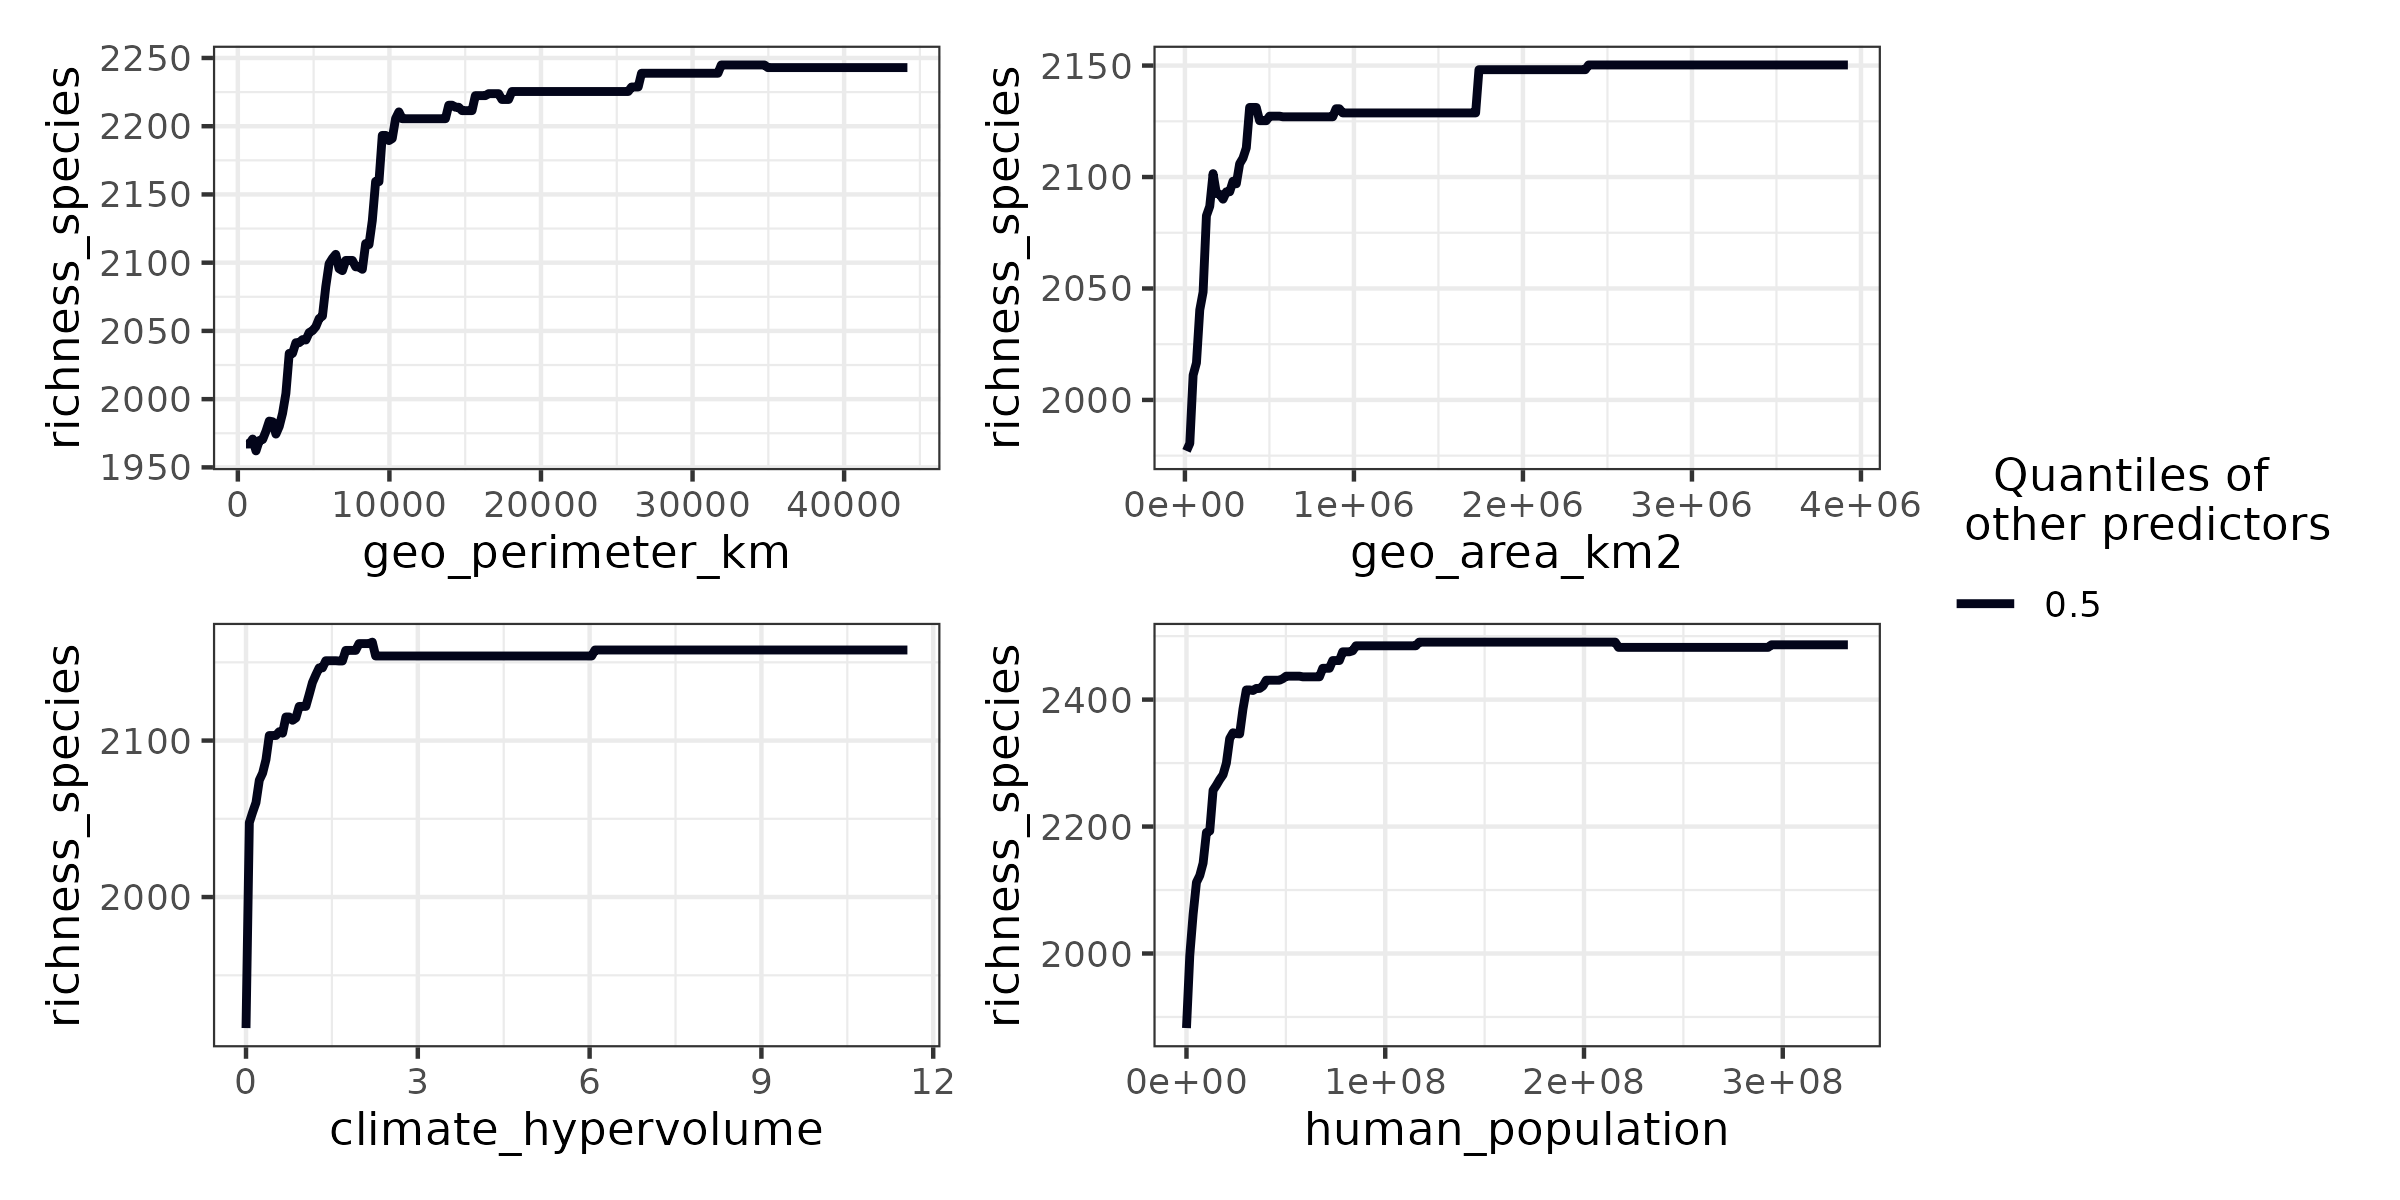
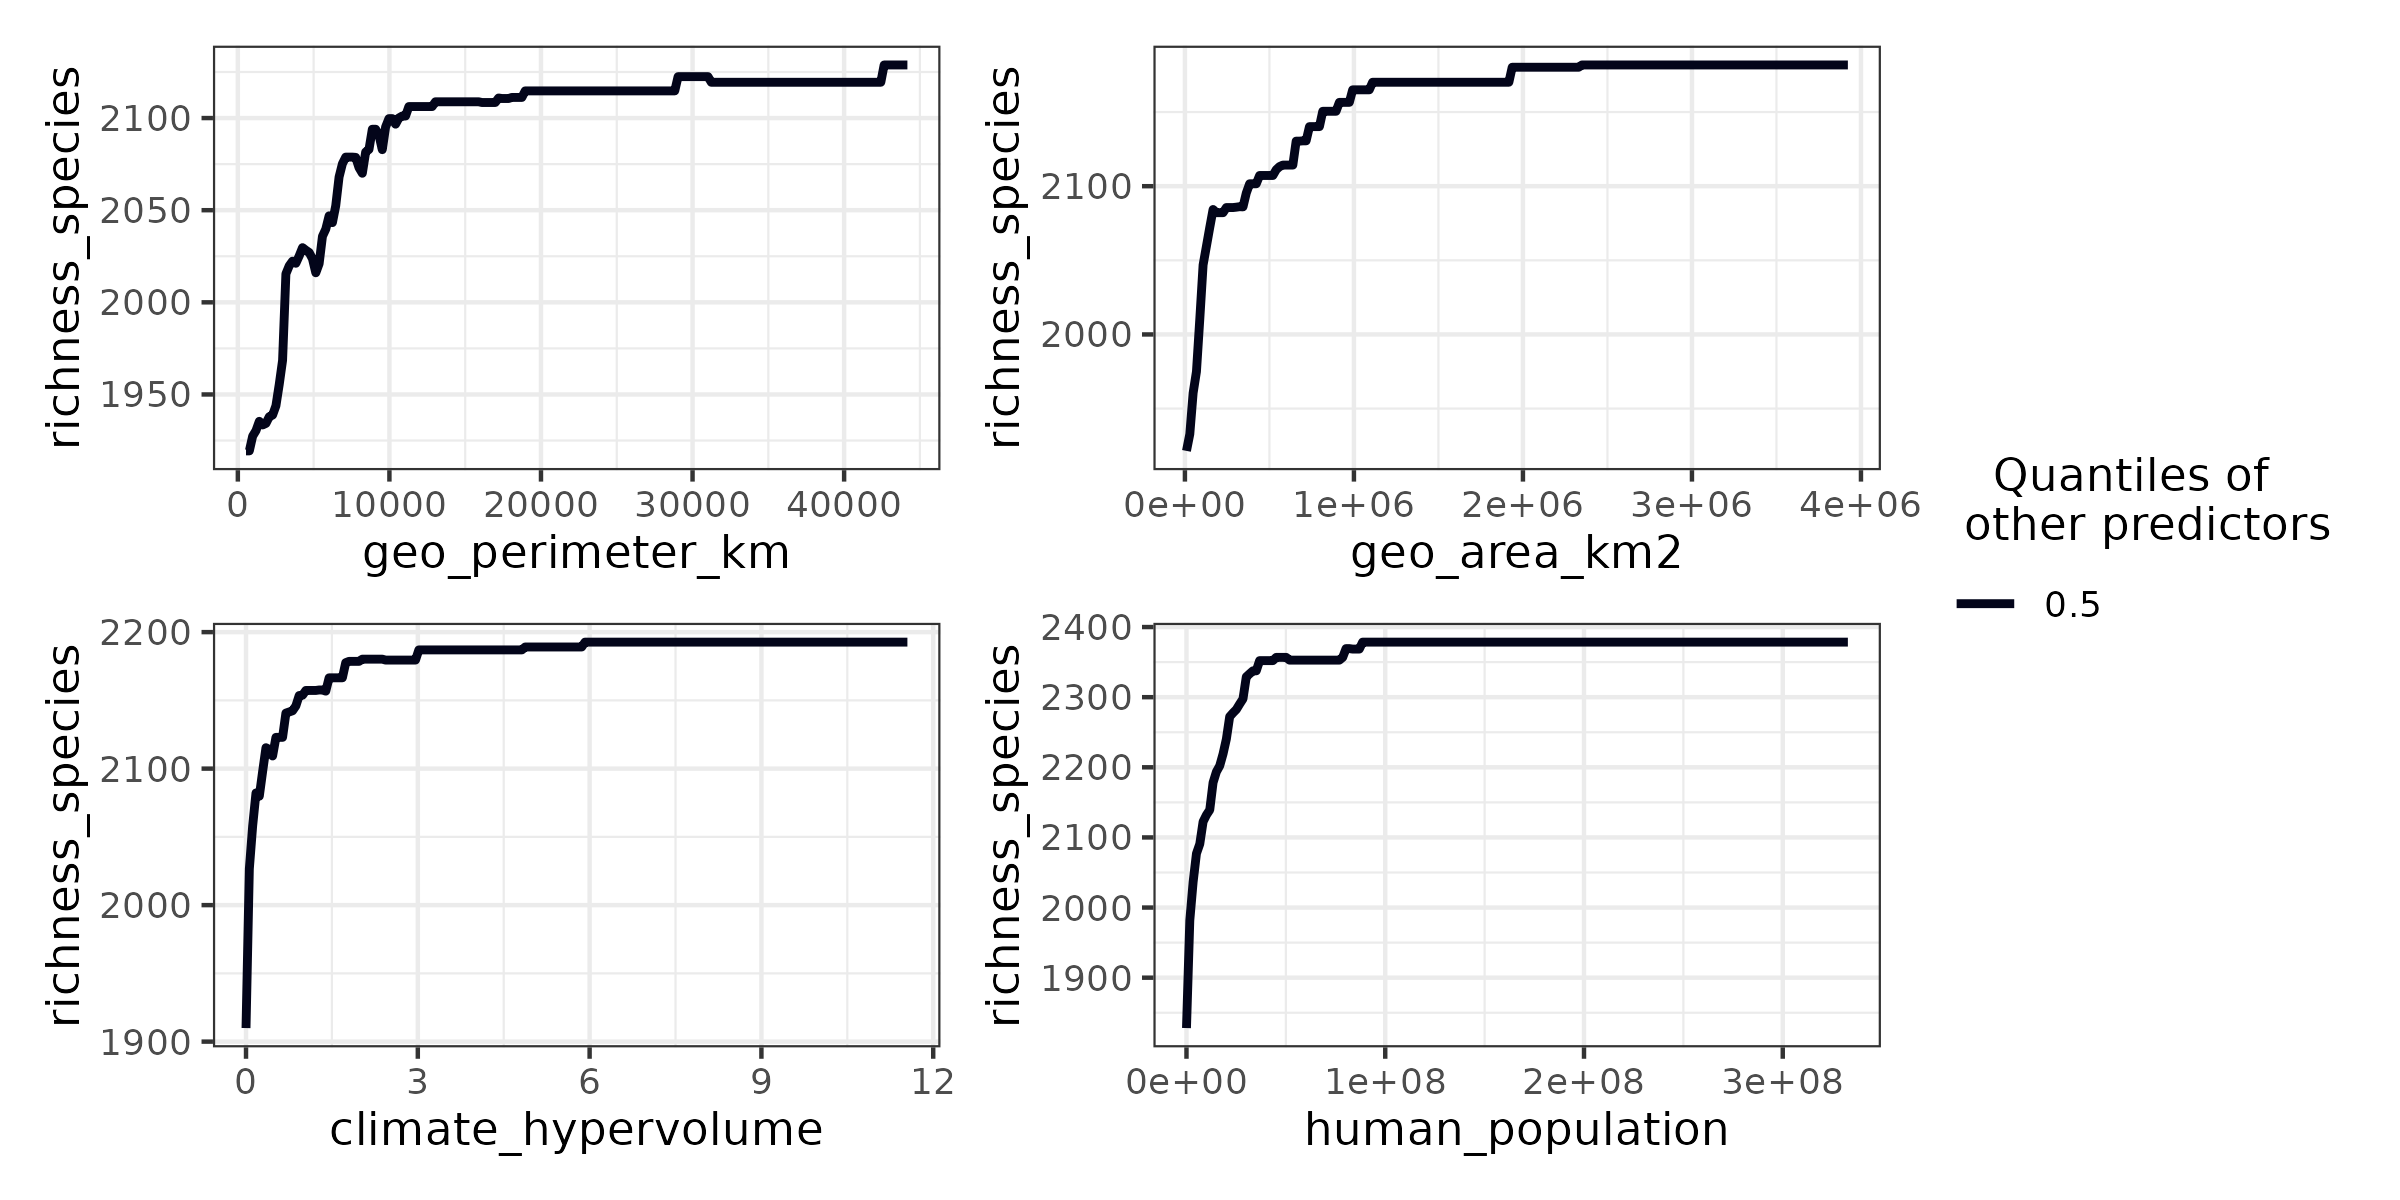
Deploying to gh-pages from @ BlasBenito/spatialData@85ecf6c11f945ee4fafa5b7aca7d5520812da540 🚀

diff --git a/LICENSE-text.html b/LICENSE-text.html
@@ -1,13 +1,13 @@
 <!DOCTYPE html>
-<!-- Generated by pkgdown: do not edit by hand --><html lang="en-US"><head><meta http-equiv="Content-Type" content="text/html; charset=UTF-8"><meta charset="utf-8"><meta http-equiv="X-UA-Compatible" content="IE=edge"><meta name="viewport" content="width=device-width, initial-scale=1, shrink-to-fit=no"><title>License • spatialData</title><script src="deps/jquery-3.6.0/jquery-3.6.0.min.js"></script><meta name="viewport" content="width=device-width, initial-scale=1, shrink-to-fit=no"><link href="deps/bootstrap-5.3.1/bootstrap.min.css" rel="stylesheet"><script src="deps/bootstrap-5.3.1/bootstrap.bundle.min.js"></script><link href="deps/font-awesome-6.5.2/css/all.min.css" rel="stylesheet"><link href="deps/font-awesome-6.5.2/css/v4-shims.min.css" rel="stylesheet"><script src="deps/headroom-0.11.0/headroom.min.js"></script><script src="deps/headroom-0.11.0/jQuery.headroom.min.js"></script><script src="deps/bootstrap-toc-1.0.1/bootstrap-toc.min.js"></script><script src="deps/clipboard.js-2.0.11/clipboard.min.js"></script><script src="deps/search-1.0.0/autocomplete.jquery.min.js"></script><script src="deps/search-1.0.0/fuse.min.js"></script><script src="deps/search-1.0.0/mark.min.js"></script><!-- pkgdown --><script src="pkgdown.js"></script><meta property="og:title" content="License"><link rel="stylesheet" href="extra.css"></head><body>
+<!-- Generated by pkgdown: do not edit by hand --><html lang="en-US"><head><meta http-equiv="Content-Type" content="text/html; charset=UTF-8"><meta charset="utf-8"><meta http-equiv="X-UA-Compatible" content="IE=edge"><meta name="viewport" content="width=device-width, initial-scale=1, shrink-to-fit=no"><title>License • spatialData</title><script src="deps/jquery-3.6.0/jquery-3.6.0.min.js"></script><meta name="viewport" content="width=device-width, initial-scale=1, shrink-to-fit=no"><link href="deps/bootstrap-5.3.1/bootstrap.min.css" rel="stylesheet"><script src="deps/bootstrap-5.3.1/bootstrap.bundle.min.js"></script><link href="deps/font-awesome-6.5.2/css/all.min.css" rel="stylesheet"><link href="deps/font-awesome-6.5.2/css/v4-shims.min.css" rel="stylesheet"><script src="deps/headroom-0.11.0/headroom.min.js"></script><script src="deps/headroom-0.11.0/jQuery.headroom.min.js"></script><script src="deps/bootstrap-toc-1.0.1/bootstrap-toc.min.js"></script><script src="deps/clipboard.js-2.0.11/clipboard.min.js"></script><script src="deps/search-1.0.0/autocomplete.jquery.min.js"></script><script src="deps/search-1.0.0/fuse.min.js"></script><script src="deps/search-1.0.0/mark.min.js"></script><!-- pkgdown --><script src="pkgdown.js"></script><meta property="og:title" content="License"><meta property="og:image" content="https://blasbenito.github.io/spatialData/logo.png"><link rel="stylesheet" href="extra.css"></head><body>
     <a href="#main" class="visually-hidden-focusable">Skip to contents</a>
 
 
-    <nav class="navbar navbar-expand-lg fixed-top bg-light" data-bs-theme="light" aria-label="Site navigation"><div class="container">
+    <nav class="navbar navbar-expand-lg fixed-top bg-primary" data-bs-theme="dark" aria-label="Site navigation"><div class="container">
 
     <a class="navbar-brand me-2" href="index.html">spatialData</a>
 
-    <small class="nav-text text-muted me-auto" data-bs-toggle="tooltip" data-bs-placement="bottom" title="">0.0.1</small>
+    <small class="nav-text text-muted me-auto" data-bs-toggle="tooltip" data-bs-placement="bottom" title="">1.0.0</small>
 
 
     <button class="navbar-toggler" type="button" data-bs-toggle="collapse" data-bs-target="#navbar" aria-controls="navbar" aria-expanded="false" aria-label="Toggle navigation">
@@ -20,16 +20,20 @@
   <button class="nav-link dropdown-toggle" type="button" id="dropdown-articles" data-bs-toggle="dropdown" aria-expanded="false" aria-haspopup="true">Articles</button>
   <ul class="dropdown-menu" aria-labelledby="dropdown-articles"><li><hr class="dropdown-divider"></li>
     <li><h6 class="dropdown-header" data-toc-skip>Tutorials</h6></li>
-    <li><a class="dropdown-item" href="articles/vi.html">vi</a></li>
+    <li><a class="dropdown-item" href="articles/andalusia.html">andalusia</a></li>
+    <li><a class="dropdown-item" href="articles/communities.html">communities</a></li>
+    <li><a class="dropdown-item" href="articles/interaction.html">interaction</a></li>
+    <li><a class="dropdown-item" href="articles/linaria.html">linaria</a></li>
+    <li><a class="dropdown-item" href="articles/neanderthal.html">neanderthal</a></li>
     <li><a class="dropdown-item" href="articles/plantae.html">plantae</a></li>
     <li><a class="dropdown-item" href="articles/quercus.html">quercus</a></li>
-    <li><a class="dropdown-item" href="articles/neanderthal.html">neanderthal</a></li>
     <li><a class="dropdown-item" href="articles/trees.html">trees</a></li>
-    <li><a class="dropdown-item" href="articles/communities.html">communities</a></li>
+    <li><a class="dropdown-item" href="articles/vi.html">vi</a></li>
   </ul></li>
 <li class="nav-item"><a class="nav-link" href="news/index.html">Changelog</a></li>
       </ul><ul class="navbar-nav"><li class="nav-item"><form class="form-inline" role="search">
  <input class="form-control" type="search" name="search-input" id="search-input" autocomplete="off" aria-label="Search site" placeholder="Search for" data-search-index="search.json"></form></li>
+<li class="nav-item"><a class="external-link nav-link" href="https://github.com/BlasBenito/spatialData/" aria-label="GitHub"><span class="fa fab fa-github fa-lg"></span></a></li>
       </ul></div>
 
 
@@ -37,20 +41,18 @@
 </nav><div class="container template-title-body">
 <div class="row">
   <main id="main" class="col-md-9"><div class="page-header">
-
-      <h1>License</h1>
+      <img src="logo.png" class="logo" alt=""><h1>License</h1>
 
     </div>
 
-<pre>YEAR: 2025
-COPYRIGHT HOLDER: blankpkg authors
+<pre>Creative Commons Attribution 4.0 International (CC BY 4.0)
 </pre>
 
   </main></div>
 
 
     <footer><div class="pkgdown-footer-left">
-  <p>Developed by First Last.</p>
+  <p>Developed by <a href="https://blasbenito.com" class="external-link">Blas M. Benito</a>.</p>
 </div>
 
 <div class="pkgdown-footer-right">

diff --git a/articles/interaction.html b/articles/interaction.html
@@ -136,10 +136,10 @@ this tutorial.</p>
 <span><span class="co">#&gt; <span style="color: #00BBBB;">ℹ</span> Executing `sudo sh -c apt-get -y update`</span></span>
 <span><span class="co">#&gt; Get:1 file:/etc/apt/apt-mirrors.txt Mirrorlist [144 B]</span></span>
 <span><span class="co">#&gt; Hit:2 http://azure.archive.ubuntu.com/ubuntu noble InRelease</span></span>
-<span><span class="co">#&gt; Hit:6 https://packages.microsoft.com/repos/azure-cli noble InRelease</span></span>
 <span><span class="co">#&gt; Hit:3 http://azure.archive.ubuntu.com/ubuntu noble-updates InRelease</span></span>
 <span><span class="co">#&gt; Hit:4 http://azure.archive.ubuntu.com/ubuntu noble-backports InRelease</span></span>
 <span><span class="co">#&gt; Hit:5 http://azure.archive.ubuntu.com/ubuntu noble-security InRelease</span></span>
+<span><span class="co">#&gt; Hit:6 https://packages.microsoft.com/repos/azure-cli noble InRelease</span></span>
 <span><span class="co">#&gt; Hit:7 https://packages.microsoft.com/ubuntu/24.04/prod noble InRelease</span></span>
 <span><span class="co">#&gt; Reading package lists...</span></span>
 <span><span class="co">#&gt; <span style="color: #00BBBB;">ℹ</span> Executing `sudo sh -c apt-get -y install libgdal-dev gdal-bin libgeos-dev libproj-dev libsqlite3-dev libabsl-dev cmake libssl-dev libudunits2-dev make libuv1-dev zlib1g-dev pandoc libpng-dev libicu-dev libfontconfig1-dev libfreetype6-dev libfribidi-dev libharfbuzz-dev texlive libxml2-dev`</span></span>
@@ -167,8 +167,8 @@ this tutorial.</p>
 <span><span class="co">#&gt; libharfbuzz-dev is already the newest version (8.3.0-2build2).</span></span>
 <span><span class="co">#&gt; libxml2-dev is already the newest version (2.9.14+dfsg-1.3ubuntu3.7).</span></span>
 <span><span class="co">#&gt; The following additional packages will be installed:</span></span>
-<span><span class="co">#&gt;   dvisvgm fonts-lmodern fonts-texgyre fonts-texgyre-math libgumbo2</span></span>
-<span><span class="co">#&gt; libkpathsea6 libmujs3 libpotrace0 libptexenc1 libsynctex2 libteckit0</span></span>
+<span><span class="co">#&gt; dvisvgm fonts-lmodern fonts-texgyre fonts-texgyre-math libgumbo2</span></span>
+<span><span class="co">#&gt;   libkpathsea6 libmujs3 libpotrace0 libptexenc1 libsynctex2 libteckit0</span></span>
 <span><span class="co">#&gt;   libtexlua53-5 libwoff1 libzzip-0-13t64 lmodern mupdf-tools tex-gyre</span></span>
 <span><span class="co">#&gt;   texlive-base texlive-binaries texlive-fonts-recommended texlive-latex-base</span></span>
 <span><span class="co">#&gt;   texlive-latex-recommended tipa</span></span>
@@ -182,7 +182,7 @@ this tutorial.</p>
 <span><span class="co">#&gt;   libtexlua53-5 libwoff1 libzzip-0-13t64 lmodern mupdf-tools tex-gyre texlive</span></span>
 <span><span class="co">#&gt;   texlive-base texlive-binaries texlive-fonts-recommended texlive-latex-base</span></span>
 <span><span class="co">#&gt;   texlive-latex-recommended tipa</span></span>
-<span><span class="co">#&gt; 0 upgraded, 24 newly installed, 0 to remove and 36 not upgraded.</span></span>
+<span><span class="co">#&gt; 0 upgraded, 24 newly installed, 0 to remove and 37 not upgraded.</span></span>
 <span><span class="co">#&gt; Need to get 131 MB of archives.</span></span>
 <span><span class="co">#&gt; After this operation, 322 MB of additional disk space will be used.</span></span>
 <span><span class="co">#&gt; Get:1 file:/etc/apt/apt-mirrors.txt Mirrorlist [144 B]</span></span>
@@ -211,10 +211,13 @@ this tutorial.</p>
 <span><span class="co">#&gt; Get:24 http://azure.archive.ubuntu.com/ubuntu noble/universe amd64 texlive all 2023.20240207-1 [14.0 kB]</span></span>
 <span><span class="co">#&gt; Get:25 http://azure.archive.ubuntu.com/ubuntu noble/universe amd64 tipa all 2:1.3-21 [2967 kB]</span></span>
 <span><span class="co">#&gt; Preconfiguring packages ...</span></span>
-<span><span class="co">#&gt; Fetched 131 MB in 2s (60.5 MB/s)</span></span>
+<span><span class="co">#&gt; Fetched 131 MB in 3s (52.5 MB/s)</span></span>
 <span><span class="co">#&gt; Selecting previously unselected package libkpathsea6:amd64.</span></span>
 <span><span class="co">#&gt; (Reading database ...</span></span>
-<span><span class="co">#&gt; (Reading database ... 5%(Reading database ... 10%(Reading database ... 15%(Reading database ... 20%(Reading database ... 25%(Reading database ... 30%(Reading database ... 35%(Reading database ... 40%(Reading database ... 45%(Reading database ... 50%(Reading database ... 55%(Reading database ... 60%(Reading database ... 65%(Reading database ... 70%</span></span>
+<span><span class="co">#&gt; (Reading database ... 5%(Reading database ... 10%(Reading database ... 15%(Reading database ... 20%(Reading database ... 25%(Reading database ... 30%(Reading database ... 35%(Reading database ... 40%(Reading database ... 45%(Reading database ... 50%(Reading database ... 55%</span></span>
+<span><span class="co">#&gt; (Reading database ... 60%</span></span>
+<span><span class="co">#&gt; (Reading database ... 65%</span></span>
+<span><span class="co">#&gt; (Reading database ... 70%</span></span>
 <span><span class="co">#&gt; (Reading database ... 75%</span></span>
 <span><span class="co">#&gt; (Reading database ... 80%</span></span>
 <span><span class="co">#&gt; (Reading database ... 85%</span></span>
@@ -344,12 +347,13 @@ this tutorial.</p>
 <span><span class="co">#&gt;  systemctl restart hosted-compute-agent.service</span></span>
 <span><span class="co">#&gt;  systemctl restart systemd-logind.service</span></span>
 <span><span class="co">#&gt;  systemctl restart walinuxagent.service</span></span>
+<span><span class="co">#&gt; </span></span>
 <span><span class="co">#&gt; No containers need to be restarted.</span></span>
 <span><span class="co">#&gt; </span></span>
 <span><span class="co">#&gt; User sessions running outdated binaries:</span></span>
-<span><span class="co">#&gt;  runner @ user manager service: systemd[1172]</span></span>
+<span><span class="co">#&gt; runner @ user manager service: systemd[1112]</span></span>
 <span><span class="co">#&gt; No VM guests are running outdated hypervisor (qemu) binaries on this host.</span></span>
-<span><span class="co">#&gt; <span style="color: #00BB00;">✔</span> 7 pkgs + 126 deps: kept 130 <span style="color: #B2B2B2;">[40.2s]</span></span></span></code></pre></div>
+<span><span class="co">#&gt; <span style="color: #00BB00;">✔</span> 7 pkgs + 126 deps: kept 130 <span style="color: #B2B2B2;">[36.8s]</span></span></span></code></pre></div>
 </div>
 <div class="section level2">
 <h2 id="data-structure">Data Structure<a class="anchor" aria-label="anchor" href="#data-structure"></a>

diff --git a/index.html b/index.html
@@ -470,7 +470,7 @@
 <h2 data-toc-skip>License</h2>
 <ul class="list-unstyled">
 <li><a href="LICENSE.html">Full license</a></li>
-<li><small><a href="https://creativecommons.org/licenses/by/4.0" class="external-link">CC BY 4.0</a></small></li>
+<li><small><a href="https://creativecommons.org/licenses/by/4.0" class="external-link">CC BY 4.0</a> + file <a href="LICENSE-text.html">LICENSE</a></small></li>
 </ul>
 </div>
 